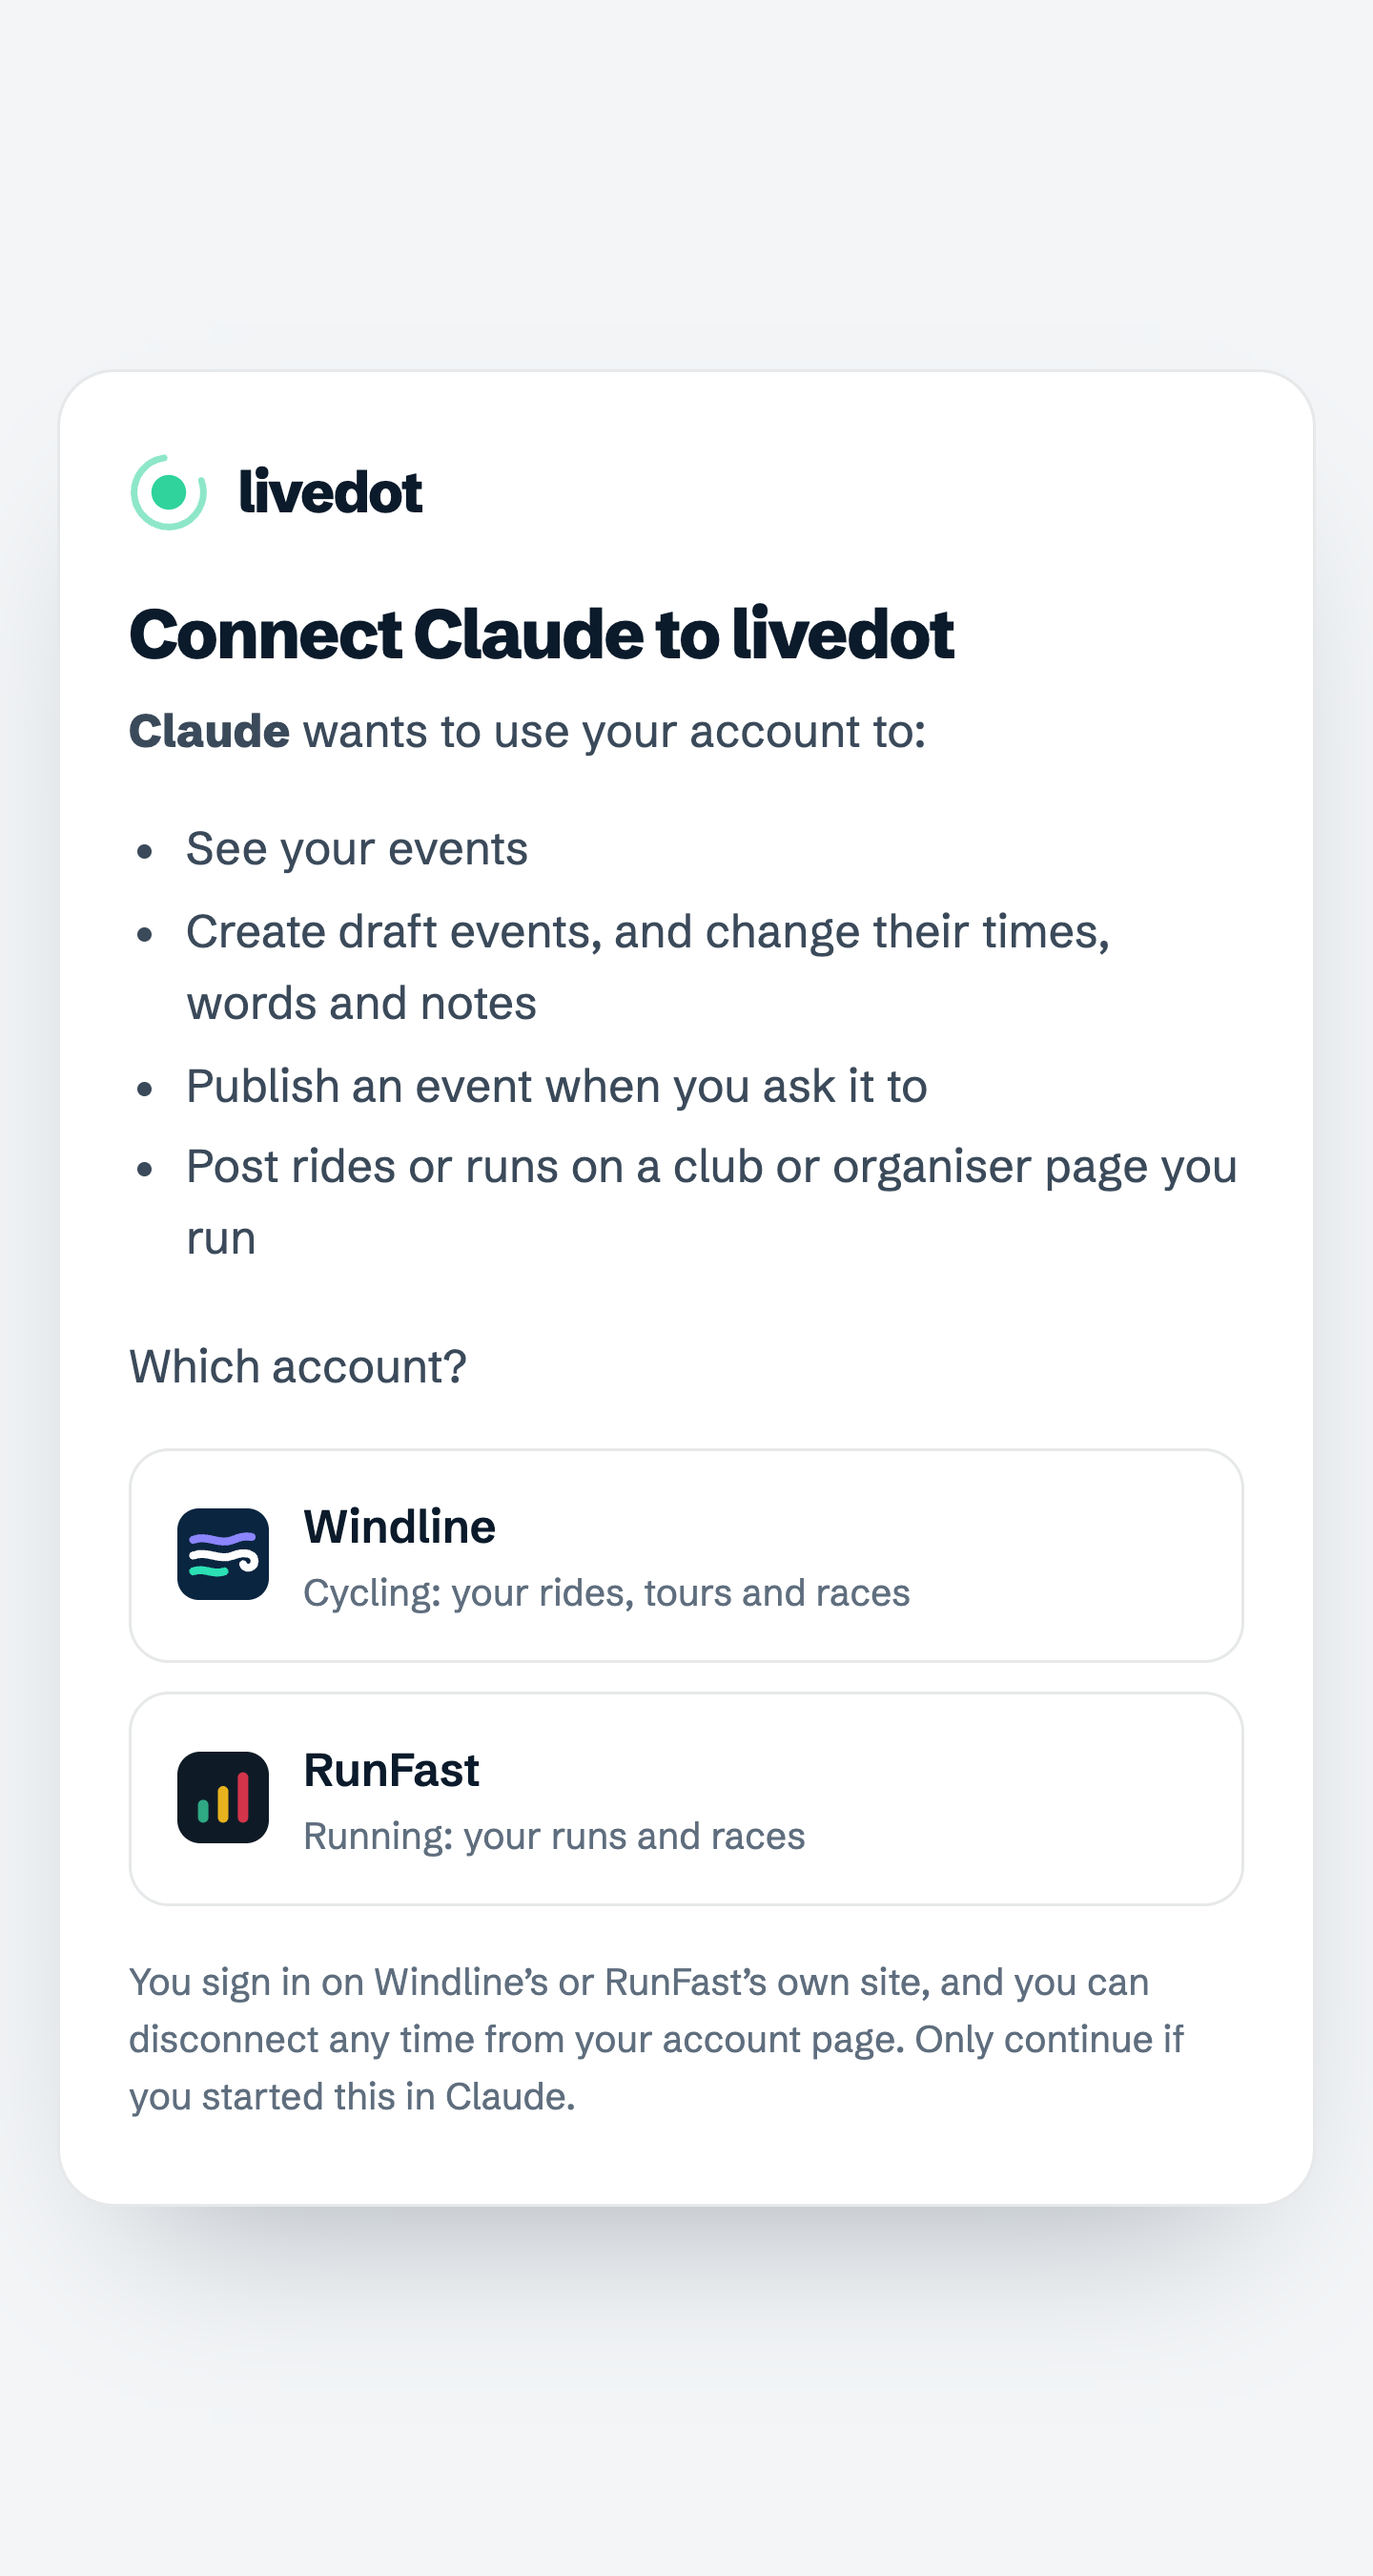
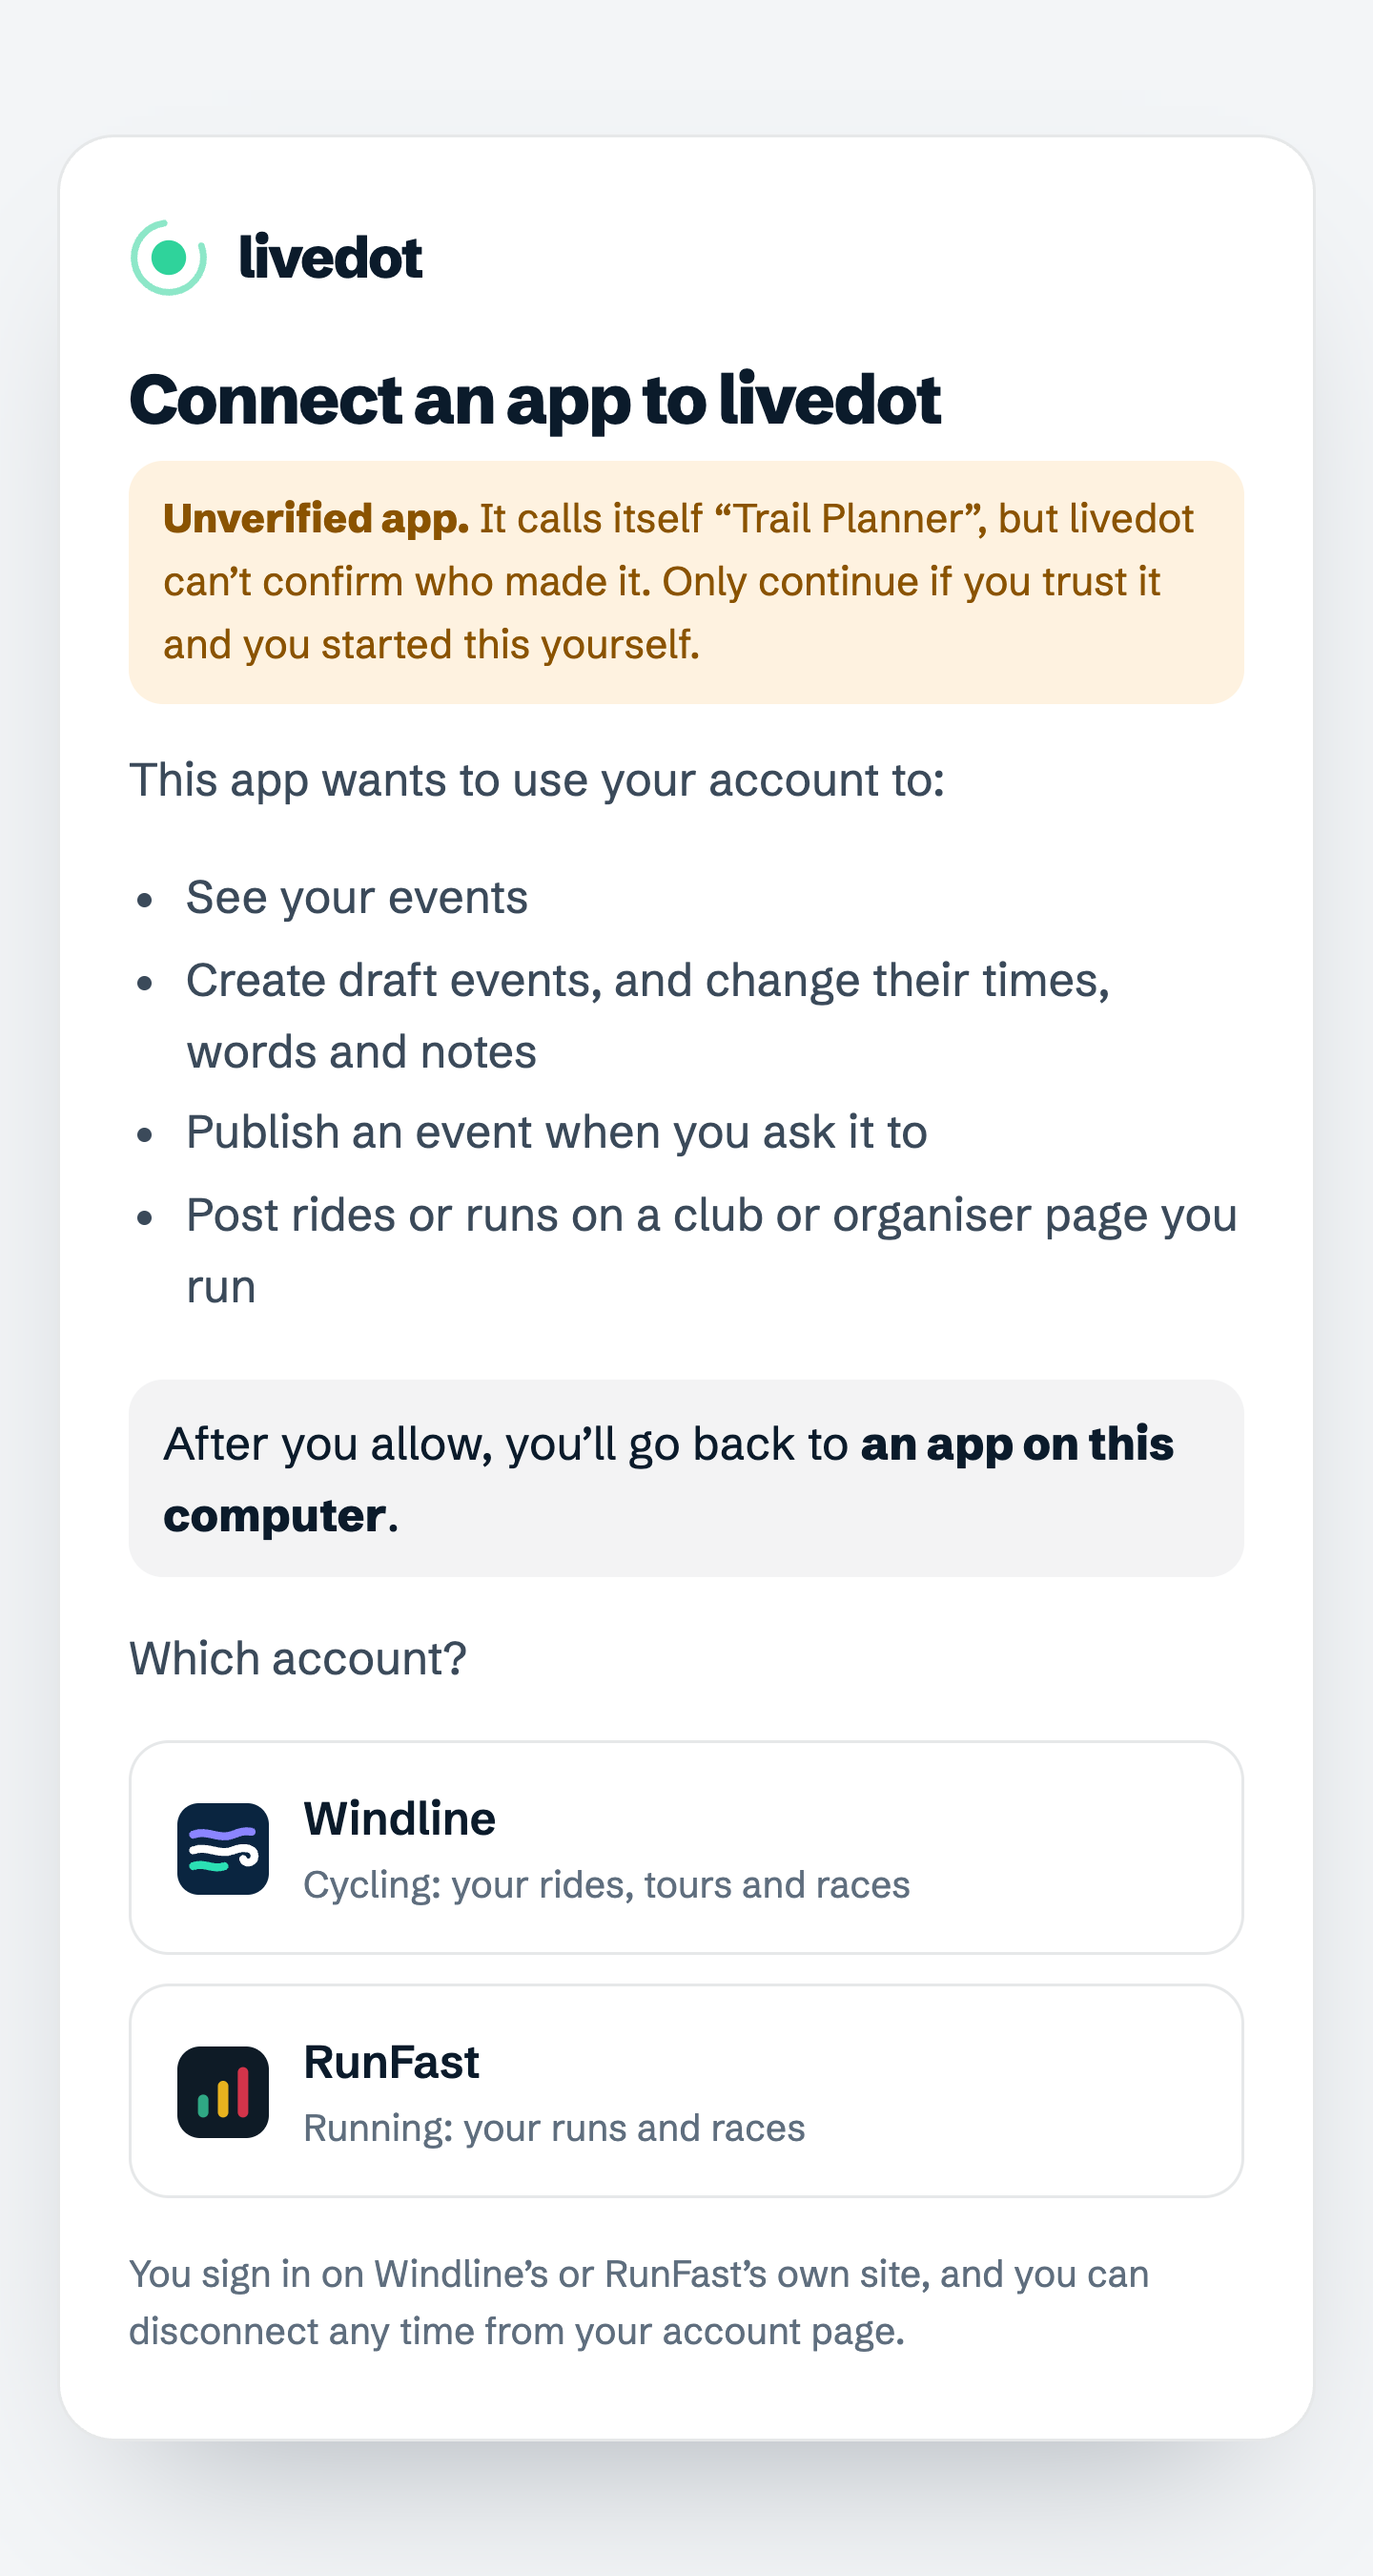
livedot MCP sign-in: the end-to-end test and shots for the consent fixes (KPMG MJ-O3)
oauth-e2e.mjs: ChatGPT returning to chatgpt.com is verified with "you'll go back to chatgpt.com"; "ChatGPT" returning to
evil.example is refused at registration; an unregistered name is marked "Unverified app. It calls itself “Trail Planner”…" with
"an app on this computer"; then the flow as before (sign in, Allow, code, tokens, create, publish, list). New 3x shots
oauth-0-choose-verified.png, oauth-1-choose.png, oauth-3-consent.png; README says who's verified and where the code goes.

diff --git a/README.md b/README.md
@@ -118,7 +118,7 @@ Connect your **Windline** or **RunFast** account and the assistant can work on y
 
 > “Make a two-day tour from these GPX files, starting 6 March at 6:00.” → a draft on your dashboard, with the weather for both days.
 
-**How sign-in works.** OAuth 2.1 with PKCE and dynamic client registration, following the MCP authorization spec. livedot.me is the issuer (`/.well-known/oauth-protected-resource`, `/.well-known/oauth-authorization-server`) and passes `/oauth/*` to the authorization server, which runs on Windline (its Firestore holds the clients and the hashed tokens, server-only). You choose Windline or RunFast, then sign in on that app's own site (`windline.tech/livedot/` or `runfast.tech/livedot/`) with the sign-in you already use (Apple, Google or email), so nothing about your password ever reaches livedot or the assistant. Access tokens last 15 minutes and refresh tokens 30 days, rotated on every use. Disconnect any time from **Account → AI assistants** in Windline or RunFast: it stops at once. Read tools and `plan_route` never need an account.
+**How sign-in works.** OAuth 2.1 with PKCE and dynamic client registration, following the MCP authorization spec. livedot.me is the issuer (`/.well-known/oauth-protected-resource`, `/.well-known/oauth-authorization-server`) and passes `/oauth/*` to the authorization server, which runs on Windline (its Firestore holds the clients and the hashed tokens, server-only). You choose Windline or RunFast, then sign in on that app's own site (`windline.tech/livedot/` or `runfast.tech/livedot/`) with the sign-in you already use (Apple, Google or email), so nothing about your password ever reaches livedot or the assistant. Access tokens last 15 minutes and refresh tokens 30 days, rotated on every use. Disconnect any time from **Account → AI assistants** in Windline or RunFast: it stops at once. Read tools and `plan_route` never need an account. Before you allow, the sign-in page shows where you'll be sent back to ("chatgpt.com", or "an app on this computer"); only ChatGPT returning to its own site and Claude returning to its own are shown as verified, and any other app is marked as unverified with the name it gave itself. Apps must return to an https address or to this computer.
 
 Every tool takes `units`: `metric` or `imperial`. Without it, the asker's region decides (ChatGPT sends it); with neither, the event's country leads and the other system follows in brackets: “km 79 (mile 49)”. All tools are read-only (`readOnlyHint`).
 
